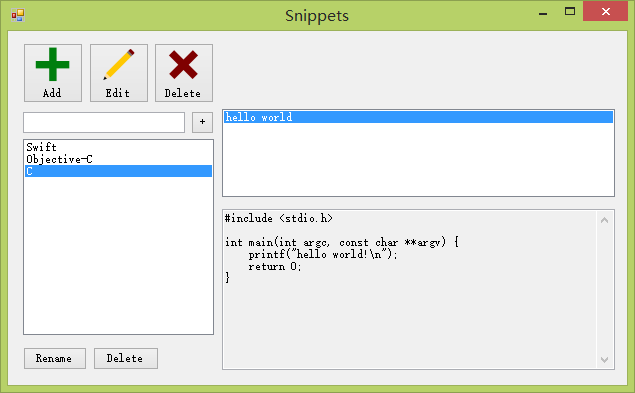
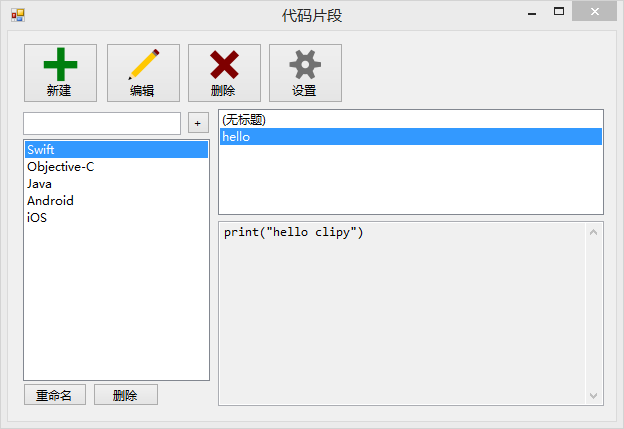
Added settings to main UI.

Changed region(s): [[0.0, 0.0, 1.0, 1.0]]

diff --git a/Clipy/Form1.Designer.cs b/Clipy/Form1.Designer.cs
@@ -41,6 +41,7 @@
             this.snippetsList = new System.Windows.Forms.ListBox();
             this.contentTextBox = new System.Windows.Forms.TextBox();
             this.notifyIcon1 = new System.Windows.Forms.NotifyIcon(this.components);
+            this.settingsButton = new System.Windows.Forms.Button();
             this.editSnippetButton = new System.Windows.Forms.Button();
             this.deleteSnippetButton = new System.Windows.Forms.Button();
             this.addSnippetButton = new System.Windows.Forms.Button();
@@ -141,6 +142,14 @@
             resources.ApplyResources(this.notifyIcon1, "notifyIcon1");
             this.notifyIcon1.MouseDoubleClick += new System.Windows.Forms.MouseEventHandler(this.notifyIcon1_MouseDoubleClick);
             // 
+            // settingsButton
+            // 
+            resources.ApplyResources(this.settingsButton, "settingsButton");
+            this.settingsButton.Image = global::Clipy.Properties.Resources.settings_small;
+            this.settingsButton.Name = "settingsButton";
+            this.settingsButton.UseVisualStyleBackColor = true;
+            this.settingsButton.Click += new System.EventHandler(this.settingsButton_Click);
+            // 
             // editSnippetButton
             // 
             resources.ApplyResources(this.editSnippetButton, "editSnippetButton");
@@ -167,6 +176,7 @@
             // 
             resources.ApplyResources(this, "$this");
             this.AutoScaleMode = System.Windows.Forms.AutoScaleMode.Font;
+            this.Controls.Add(this.settingsButton);
             this.Controls.Add(this.editSnippetButton);
             this.Controls.Add(this.deleteSnippetButton);
             this.Controls.Add(this.addSnippetButton);
@@ -203,6 +213,7 @@
         private System.Windows.Forms.Button addSnippetButton;
         private System.Windows.Forms.Button deleteSnippetButton;
         private System.Windows.Forms.Button editSnippetButton;
+        private System.Windows.Forms.Button settingsButton;
     }
 }
 

diff --git a/Clipy/Properties/Resources.Designer.cs b/Clipy/Properties/Resources.Designer.cs
@@ -89,5 +89,15 @@ namespace Clipy.Properties {
                 return ((System.Drawing.Bitmap)(obj));
             }
         }
+        
+        /// <summary>
+        ///   Looks up a localized resource of type System.Drawing.Bitmap.
+        /// </summary>
+        internal static System.Drawing.Bitmap settings_small {
+            get {
+                object obj = ResourceManager.GetObject("settings_small", resourceCulture);
+                return ((System.Drawing.Bitmap)(obj));
+            }
+        }
     }
 }

diff --git a/Clipy/Form1.cs b/Clipy/Form1.cs
@@ -592,5 +592,10 @@ namespace Clipy
             // FIXME: replace the messagebox with hud
             MessageBox.Show(resmgr.GetString("__message_box_message_copied", ci));
         }
+
+        private void settingsButton_Click(object sender, EventArgs e)
+        {
+            SettingsMenu_Click(sender, e);
+        }
     }
 }
